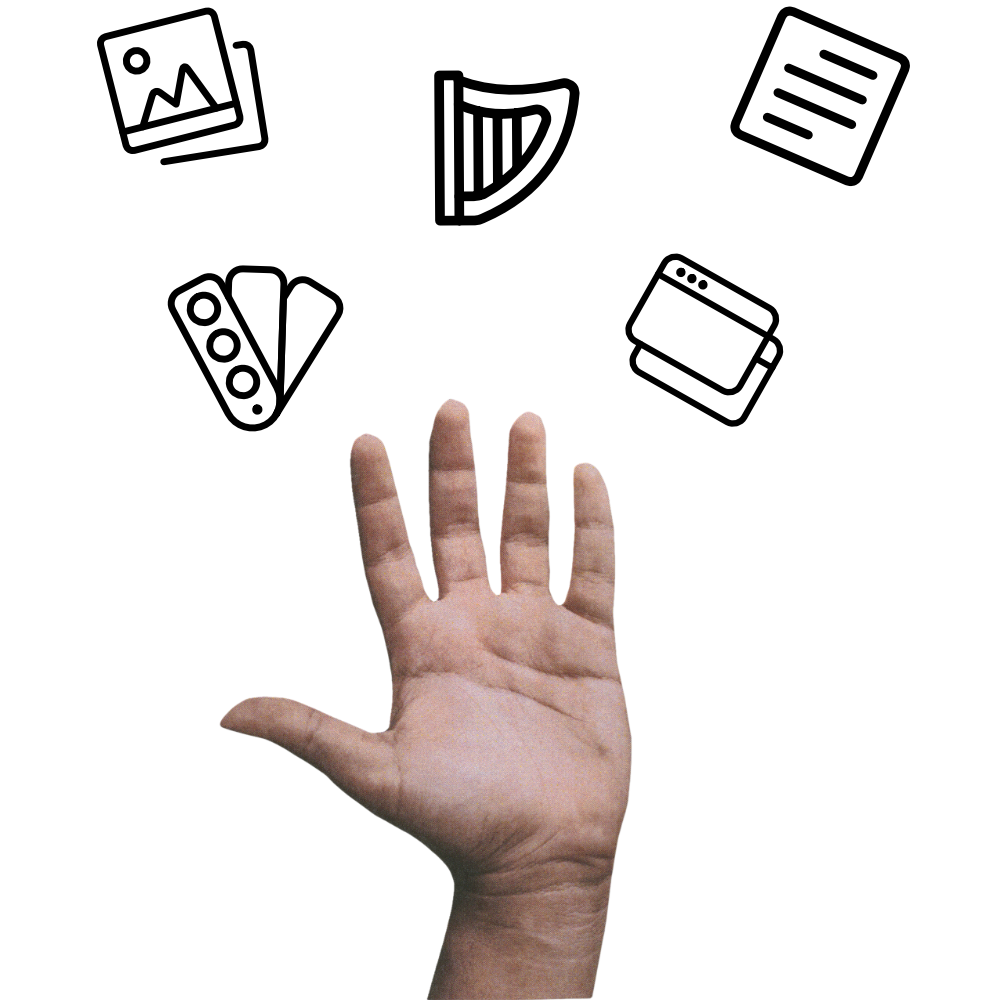
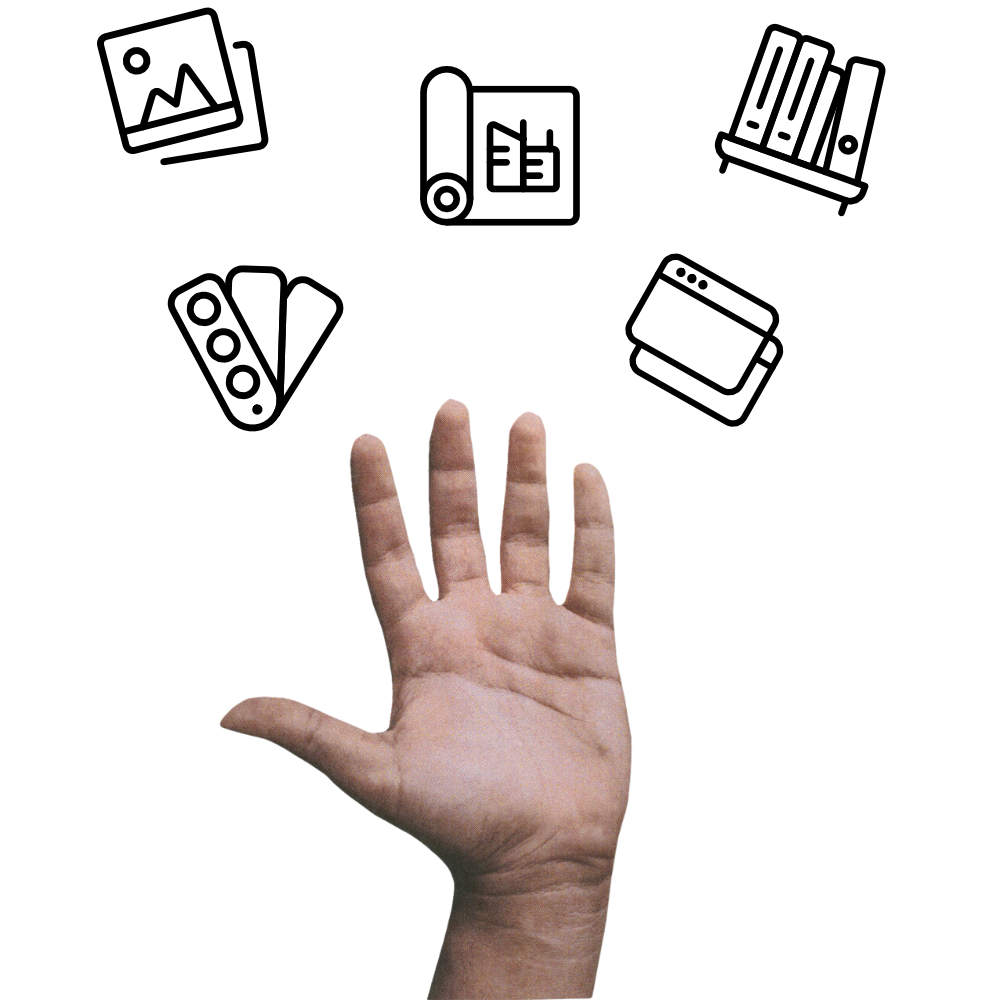
References -- finish tiles

Changed region(s): [[0.403, 0.062, 0.589, 0.248], [0.713, 0.0, 0.93, 0.217]]

diff --git a/resources/views/reference/index.antlers.html b/resources/views/reference/index.antlers.html
@@ -16,6 +16,30 @@
     {{ /nav }}
 </section>
 
+<hr>
+
+<h2 id="sponsors" class="u-center-on-lower-mqs o-scroll-spy-timeline__track">Sponsors</h2>
+<p class="u-center-on-lower-mqs">We've reserved this space to thank our top open source sponsors.</p>
+<div class="c-logo-grid u-center-on-lower-mqs">
+    {{ hero_sponsors }}
+        <div class="c-logo-grid__item">
+            {{ if error }}
+                <p>We're having trouble loading the sponsors at the moment.</p>
+            {{ else }}
+                <a href="{{ url }}">
+                    <img src="{{ avatarUrl }}">
+                    <span>{{ name }}</span>
+                </a>
+            {{ /if }}
+        </div>
+    {{ /hero_sponsors }}
+    <div class="c-logo-grid__item">
+        <a href="https://github.com/sponsors/statamic">Sponsor Statamic</a>
+    </div>
+</div>
+
+{{ $article_footer = 'no' }}
+
 {{# <section class="not-prose mt-8 grid lg:grid-cols-2 grid *:bg-zinc-50 *:p-5 gap-4 *:rounded-lg hover:*:bg-zinc-100 dark:*:bg-zinc-800 dark:hover:*:bg-zinc-700">
     {{ nav handle="reference" }}
         <a href="{{ url }}" class="hover:bg-zinc-300 text-base text-zinc-500">

diff --git a/resources/views/image_dimensions/navigation_image.antlers.html b/resources/views/image_dimensions/navigation_image.antlers.html
@@ -19,6 +19,6 @@
         width="{{ width }}" 
         height="{{ height }}"
         alt="{{ if alt }}{{ alt | ucfirst | ensure_right('.') | smartypants }}{{ else }}{{ filename | ucfirst | ensure_right('.') | replace('-| ') | smartypants }}{{ /if }}"
-        {{ image_width_override ?='style="width: {image_width_override};"' }}
+        {{ image_width_override ?='style="width: {image_width_override};"' }}{{ if hue_rotate == 'hue_rotate_1' }} class="u-image-boost-with-hue-rotate"{{ elseif hue_rotate == 'hue_rotate_2' }} class="u-image-boost-with-hue-rotate-extra"{{ /if }}
     />
 </picture>

diff --git a/public/css/base/variables.css b/public/css/base/variables.css
@@ -244,7 +244,7 @@
     =================================================== */
     --filter-image-boost-1: contrast(103%) saturate(1.12);
     --filter-image-boost-1-with-hue-rotate: contrast(103%) saturate(1.12) hue-rotate(-12deg);
-    --filter-image-boost-1-with-hue-rotate-extra: contrast(103%) saturate(1.375) hue-rotate(-12deg);
+    --filter-image-boost-1-with-hue-rotate-extra: contrast(108%) saturate(1.35) hue-rotate(-12deg);
     --filter-image-boost-2: contrast(105%) saturate(1.175);
     --filter-burnt-shadow: drop-shadow(0px 5px 2px var(--color-red-burnt-1));
 

diff --git a/resources/views/layout.antlers.html b/resources/views/layout.antlers.html
@@ -147,9 +147,11 @@
                 {{ if $suggest == 'yes' }}
                     {{ partial:suggest }}
                 {{ else }}
-                    {{ partial:edit }}
+                    {{# e.g. we output this variable on homepages like / and /reference #}}
+                    {{ unless $article_footer == 'no' }}
+                        {{ partial:edit }}
+                    {{ /unless }}
                 {{ /if }}
-                {{# {{ partial:toc :hide="hide_toc ?? false" }} #}}
             </div>
         </main>
 

diff --git a/resources/views/image_dimensions/tile.antlers.html b/resources/views/image_dimensions/tile.antlers.html
@@ -27,6 +27,6 @@
         width="{{ width }}" 
         height="{{ height }}"
         alt="{{ if alt }}{{ alt | ucfirst | ensure_right('.') | smartypants }}{{ else }}{{ filename | ucfirst | ensure_right('.') | replace('-| ') | smartypants }}{{ /if }}"
-        {{ hue_rotate ?= 'class="u-image-boost-with-hue-rotate"' }}
+        {{ if hue_rotate == 'hue_rotate_1' }} class="u-image-boost-with-hue-rotate"{{ elseif hue_rotate == 'hue_rotate_2' }} class="u-image-boost-with-hue-rotate-extra"{{ /if }}
     >
 </picture>

diff --git a/public/css/components/nav/sidebar.css b/public/css/components/nav/sidebar.css
@@ -129,6 +129,10 @@
 
                 & li {
                     padding-block-end: 0;
+                    a {
+                        /* Otherwise the sidebar might grow too big e.g. >> /reference */
+                        max-width: 12rem;
+                    }
                     &:not(ul ul *) {
                         position: relative;
                         &::before {

diff --git a/public/css/components/nav/toc.css b/public/css/components/nav/toc.css
@@ -267,7 +267,9 @@
             }
             .c-nav-toc-with-popover-api-category-heading {
                 gap: var(--spacing-s-2);
-                inline-size: 100%;
+                &:has(img) {
+                    inline-size: 100%;
+                }
             }
             .c-nav-toc-with-popover-api__mobile-button {
                 display: none;

diff --git a/public/css/utilities/utilities.css b/public/css/utilities/utilities.css
@@ -42,9 +42,11 @@
             justify-content: center;
         }
     }
-    /* e.g. */
     .u-image-boost-with-hue-rotate {
         filter: var(--filter-image-boost-1-with-hue-rotate);
+    }
+    .u-image-boost-with-hue-rotate-extra {
+        filter: var(--filter-image-boost-1-with-hue-rotate-extra);
     }
     .u-link-style-none {
         &, * {

diff --git a/resources/views/home.antlers.html b/resources/views/home.antlers.html
@@ -50,6 +50,8 @@
     </div>
 </div>
 
+{{ $article_footer = 'no' }}
+
 {{# =JFG. Keeping this here for now because it could be useful at some point #}}
 {{# <section class="markdown mt-6 md:mt-20">
     <h2>Recent Updates</h2>

diff --git a/content/collections/sections/docs.md b/content/collections/sections/docs.md
@@ -27,7 +27,7 @@ tiles:
     type: tile
     enabled: true
     flush_image: false
-    hue_rotate: true
+    hue_rotate: hue_rotate_1
     tile_link: /screencasts
   -
     id: m8fszcgf
